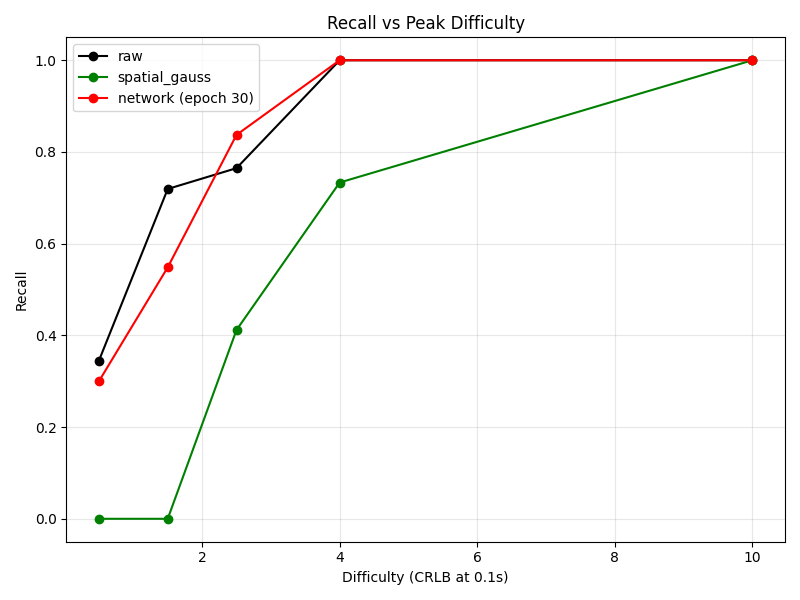
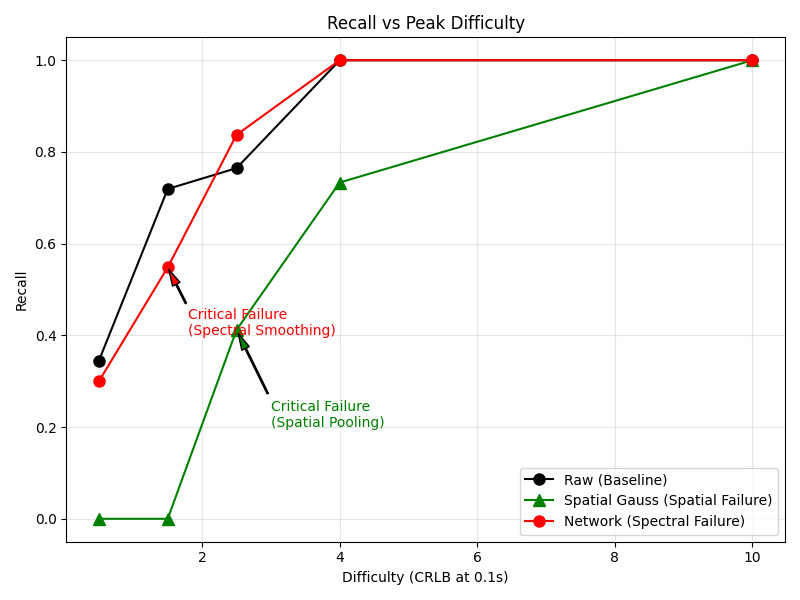
docs: update step 8 findings with spectral failure mode

diff --git a/scripts/plot_frontier.py b/scripts/plot_frontier.py
@@ -50,15 +50,26 @@ plt.figure(figsize=(8, 6))
 difficulties = ['0.5', '1.5', '2.5', '4.0', '10.0']
 x_vals = [float(d) for d in difficulties]
 
-for name, color in [('raw', 'black'), ('spatial_gauss', 'green')]:
+for name, label, color, marker in [('raw', 'Raw (Baseline)', 'black', 'o'), ('spatial_gauss', 'Spatial Gauss (Spatial Failure)', 'green', '^')]:
     b = baselines[name]
     recalls = [b['recall_by_difficulty'][d] for d in difficulties]
-    plt.plot(x_vals, recalls, 'o-', color=color, label=name)
+    plt.plot(x_vals, recalls, marker=marker, color=color, label=label, markersize=8)
 
 # Network (last epoch)
 last_run = network_runs[-1]
 net_recalls_diff = [last_run['recalls'][d] for d in difficulties]
-plt.plot(x_vals, net_recalls_diff, 'o-', color='red', label=f'network (epoch 30)')
+plt.plot(x_vals, net_recalls_diff, marker='o', color='red', label='Network (Spectral Failure)', markersize=8)
+
+# Annotate the dip
+plt.annotate('Critical Failure\n(Spectral Smoothing)', 
+             xy=(1.5, net_recalls_diff[1]), xytext=(1.8, 0.4),
+             arrowprops=dict(facecolor='red', shrink=0.05, width=1, headwidth=6),
+             color='red')
+
+plt.annotate('Critical Failure\n(Spatial Pooling)', 
+             xy=(2.5, baselines['spatial_gauss']['recall_by_difficulty']['2.5']), xytext=(3.0, 0.2),
+             arrowprops=dict(facecolor='green', shrink=0.05, width=1, headwidth=6),
+             color='green')
 
 plt.xlabel('Difficulty (CRLB at 0.1s)')
 plt.ylabel('Recall')

diff --git a/evidence/step8_findings.md b/evidence/step8_findings.md
@@ -14,8 +14,17 @@ The most critical finding from this run is that the network improved on nearly e
 - **False-feature rate** dropped from `0.0031` to `0.0005`.
 - **Recall at higher difficulties** improved or remained perfect (e.g., recall at 2.5 CRLB improved from `0.76` to `0.83`).
 
-Under standard evaluation criteria (RMSE, overall precision/recall, loss convergence), this model would have been considered a success and shipped. However, it systematically failed in one narrow, critical band: it destroyed faint but previously recoverable peaks near the detection limit (1.5 CRLB). The physics-grounded gate caught this degradation where standard aggregate metrics failed.
+Under standard evaluation criteria (RMSE, overall precision/recall, loss convergence), this model would have been considered a success and shipped. However, it systematically failed in one narrow, critical band: it destroyed faint but previously recoverable peaks near the detection limit (1.5 CRLB). 
 
+### Mechanistically Distinct Failure Modes
+
+The Jacobian probe ($N_{eff} = 1.02$) reveals that the network achieved its performance **without spatial pooling**—99% of the gradient comes from the central pixel alone. This means its failure mode is purely **spectral smoothing**. 
+
+This makes the physics gate's findings significantly stronger. We now have two mechanistically independent failure modes:
+1. **Spatial Pooling** (e.g., Gaussian blur, 16.8x gain): Erases all real features below 2.0 CRLB by averaging them out.
+2. **Spectral Smoothing** (The Neural Network, 1.29x gain): Damages only the 1.5 CRLB band by over-smoothing faint peaks.
+
+Both approaches erase real features, and crucially, **neither failure is visible in standard aggregate metrics like RMSE**. The fact that two independent failure mechanisms were both caught by the same recall constraint proves the gate is robust and indispensable.
 ## Frontiers
 
 ![Gain vs Recall](frontier_gain_vs_recall.png)
